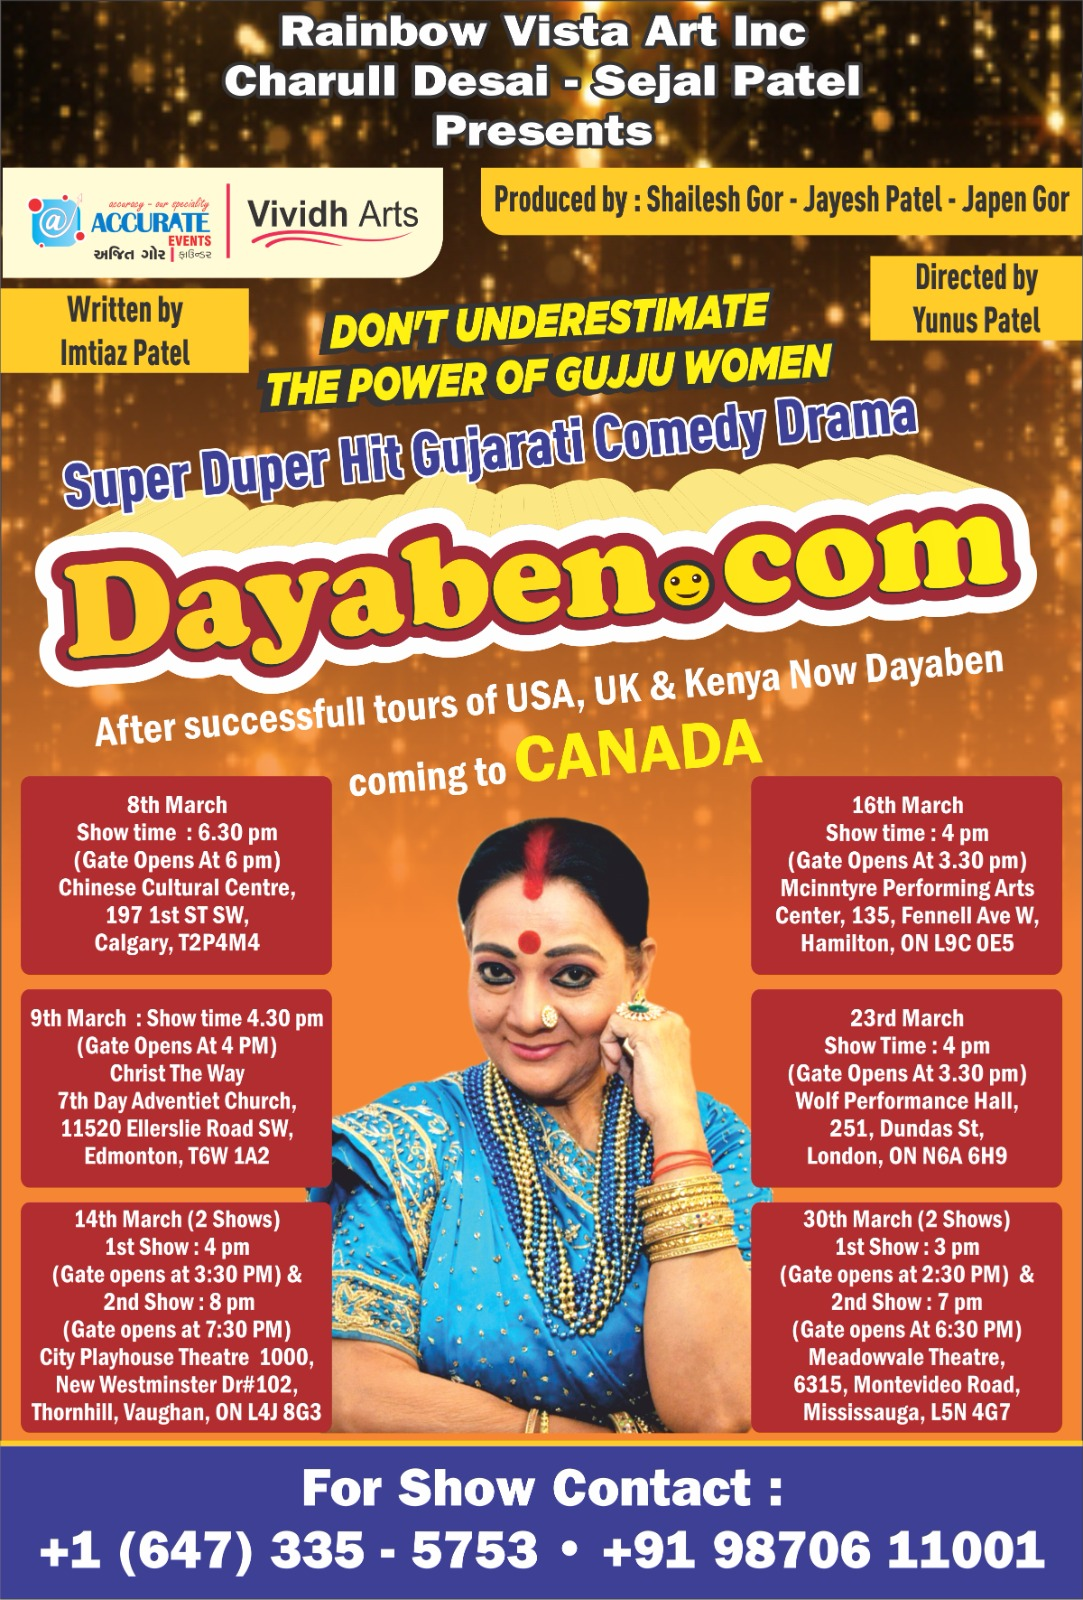
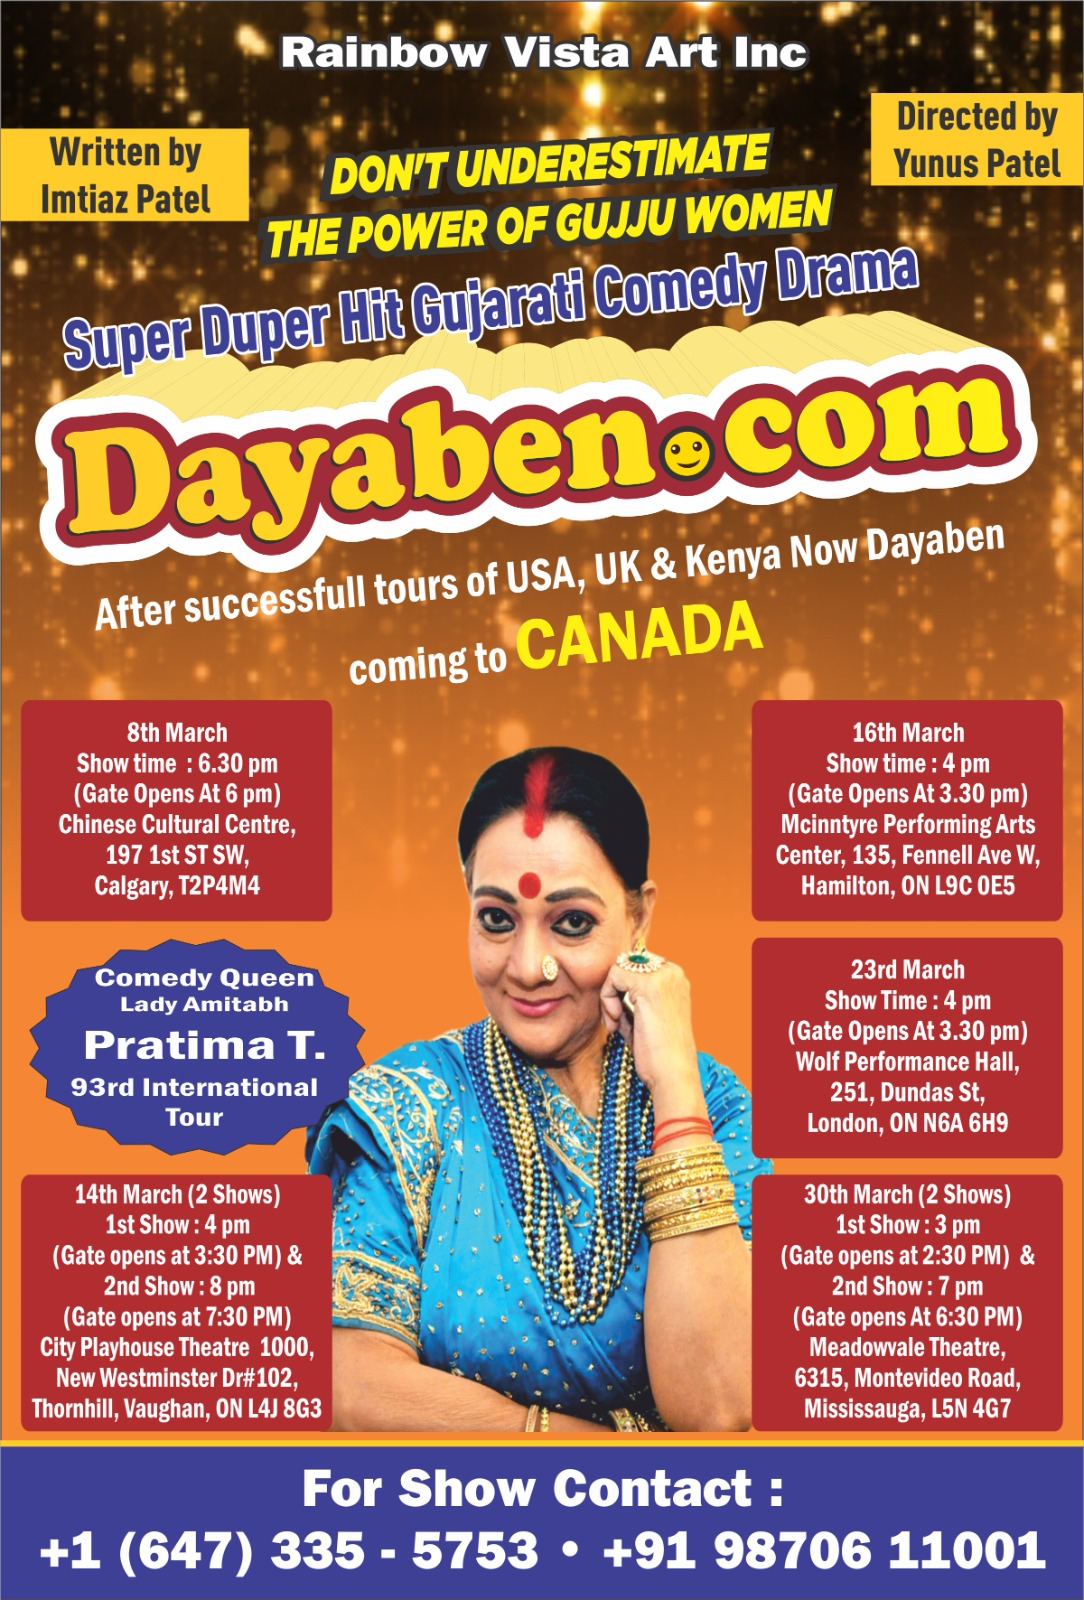
Changing poster and tickets

diff --git a/src/components/Shows.js b/src/components/Shows.js
@@ -26,21 +26,21 @@ This hilarious comedy journey will bring you laughter and also have an important
         </p>
         <h3>Calgary</h3>
         <p> Venue: Chinese Cultural Center <br>
-        </br> Date: March 8, 202<br></br> Showtime: 7:00 pm (MST) <br></br> <a href="https://allevents.in/calgary/dayaben-dot-com/80004136077556?ref=quicksearch-event-results">Tickets</a></p>
+        </br> Date: March 8, 202<br></br> Showtime: 7:00 pm (MST) <br></br> <a href="https://allevents.in/calgary/dayaben-dot-com/80004136077556?ref=quicksearch-event-results">Buy Tickets</a></p>
         
         <h3>Vaughan</h3>
         <p>Venue: City Playhouse <br>
-        </br> Date:March 14, 2025<br></br>Showtimes: 4:00 pm (EST), 8:00 pm (EST)  <br></br> <a href="https://tickets.cityplayhouse.ca/event/655:438/">Tickets</a></p>
+        </br> Date:March 14, 2025<br></br>Showtimes: 4:00 pm (EST), 8:00 pm (EST)  <br></br> <a href="https://tickets.cityplayhouse.ca/event/655:438/">Buy Tickets</a></p>
         <h3> Hamilton</h3>
         <p>Venue: Mcintyre Perfoming Arts Center <br>
-        </br> Date:March 16, 2025<br></br>Showtime: 4:00 pm (EST)  <br></br> <a href="https://ci.ovationtix.com/36734/performance/11587282">Tickets</a></p>
+        </br> Date:March 16, 2025<br></br>Showtime: 4:00 pm (EST)  <br></br> <a href="https://ci.ovationtix.com/36734/performance/11587282">Buy Tickets</a></p>
         <h3> London </h3>
         <p>Venue: Wolf Performance Hall <br>
-        </br> Date:March 23, 2025<br></br>Showtime: 4:00 pm (EST)  <br></br> <a href="https://allevents.in/london/dayaben-dot-com/80003404619945">Tickets</a></p>
+        </br> Date:March 23, 2025<br></br>Showtime: 4:00 pm (EST)  <br></br> <a href="https://allevents.in/london/dayaben-dot-com/80003404619945">Buy Tickets</a></p>
         <h3> Mississauga</h3>
         <p>Venue: Meadowvale Theatre <br>
-        </br> Date:March 30, 2025<br></br>Showtimes:<br></br> 3:00 pm (EST)  <br></br> <a href="https://www.ticketmaster.ca/event/10006238B1452448">Tickets</a><br></br>
-        7:00 pm (EST)<br></br><a href="https://www.ticketmaster.ca/event/10006238B1732450">Tickets</a></p>
+        </br> Date:March 30, 2025<br></br>Showtimes:<br></br> 3:00 pm (EST)  <br></br> <a href="https://www.ticketmaster.ca/event/10006238B1452448">Buy Tickets</a><br></br>
+        7:00 pm (EST)<br></br><a href="https://www.ticketmaster.ca/event/10006238B1732450">Buy Tickets</a></p>
 
         
       </div>
